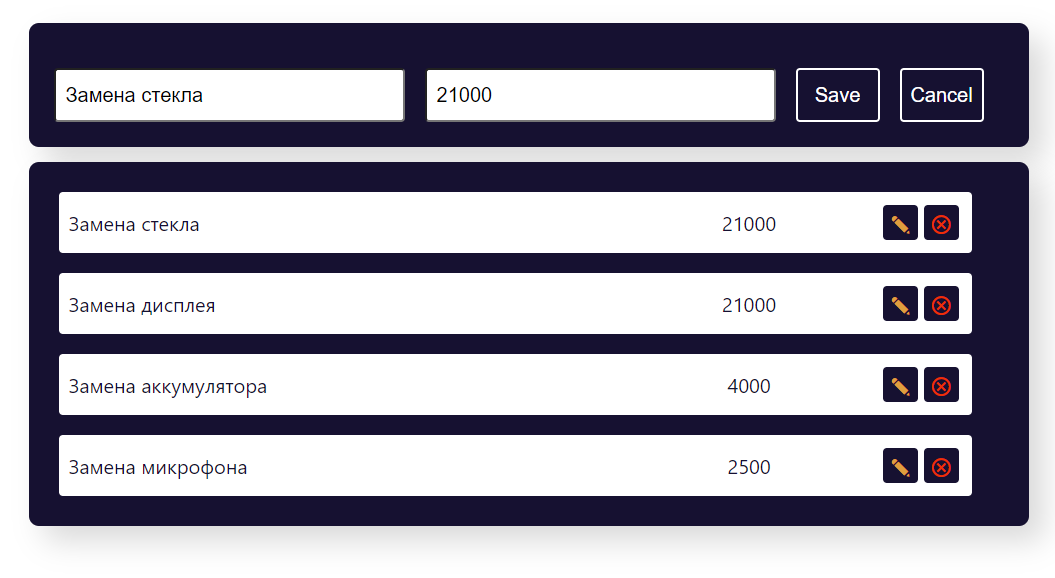
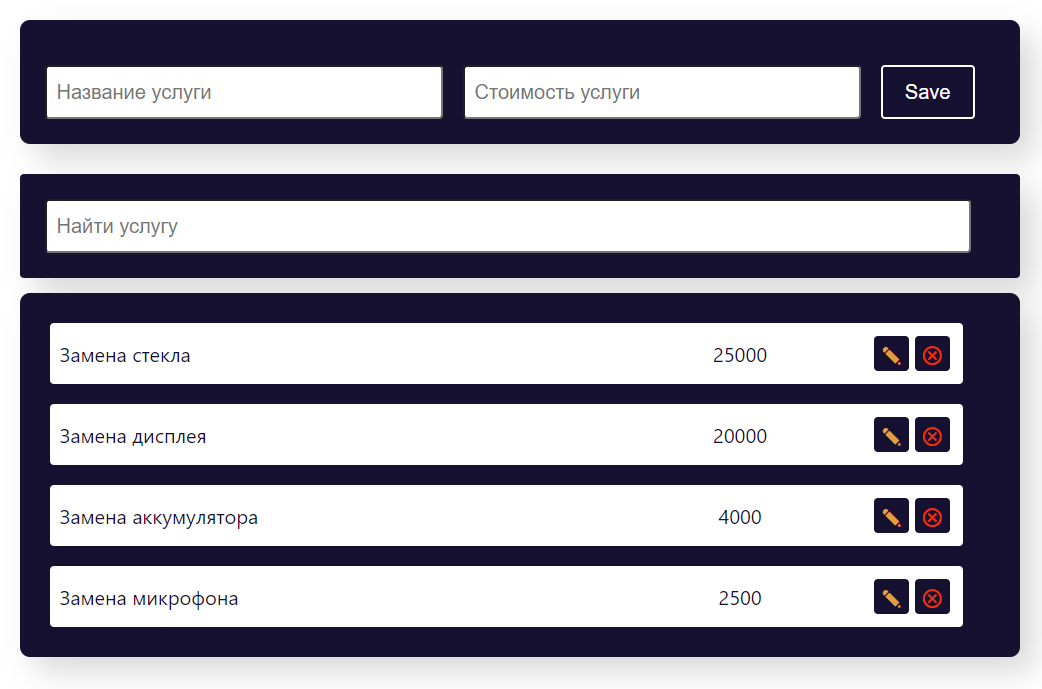
feat: added functionality

diff --git a/src/redux/serviceReducer.js b/src/redux/serviceReducer.js
@@ -5,12 +5,15 @@ import {
   DEL_SERVICE,
   REPLACEMENT_SERVICE,
   EXCHANGE_SERVICE,
+  SET_SEARCH_VALUE,
 } from './actions';
 
 const initialState = {
   service: { name: '', price: '', replacement: false },
   services: [],
   replacementId: '',
+  searchQuery: '',
+  filteredServices: [],
 };
 
 const serviceReducer = (state = initialState, action) => {
@@ -23,6 +26,8 @@ const serviceReducer = (state = initialState, action) => {
       },
       services: [...state.services],
       replacementId: state.replacementId,
+      searchQuery: state.searchQuery,
+      filteredServices: state.filteredServices,
     };
   }
 
@@ -43,6 +48,8 @@ const serviceReducer = (state = initialState, action) => {
         },
       ],
       replacementId: '',
+      searchQuery: state.searchQuery,
+      filteredServices: state.filteredServices,
     };
   }
 
@@ -51,6 +58,8 @@ const serviceReducer = (state = initialState, action) => {
       service: { name: '', price: '', replacement: state.service.replacement },
       services: state.services.filter((item) => item.id !== action.id),
       replacementId: state.replacementId,
+      searchQuery: state.searchQuery,
+      filteredServices: state.filteredServices,
     };
   }
 
@@ -59,6 +68,8 @@ const serviceReducer = (state = initialState, action) => {
       service: { name: action.name, price: action.price, replacement: true },
       services: [...state.services],
       replacementId: action.id,
+      searchQuery: state.searchQuery,
+      filteredServices: state.filteredServices,
     };
   }
 
@@ -71,6 +82,25 @@ const serviceReducer = (state = initialState, action) => {
       },
       services: state.services.filter(
         (item) => item.id !== state.replacementId
+      ),
+      replacementId: state.replacementId,
+      searchQuery: state.searchQuery,
+      filteredServices: state.filteredServices,
+    };
+  }
+
+  if (action.type === SET_SEARCH_VALUE) {
+    return {
+      service: {
+        name: state.service.name,
+        price: state.service.price,
+        replacement: state.service.replacement,
+      },
+      services: [...state.services],
+      replacementId: state.replacementId,
+      searchQuery: action.searchQuery,
+      filteredServices: state.services.filter(
+        (item) => item.name.indexOf(action.searchQuery) > -1
       ),
     };
   }

diff --git a/src/components/ServiceList.js b/src/components/ServiceList.js
@@ -4,8 +4,13 @@ import ServiceListItem from './ServiceListItem';
 
 const ServiceList = () => {
   const services = useSelector((state) => state.services);
+  const filteredServices = useSelector((state) => state.filteredServices);
+  const searchQuery = useSelector((state) => state.searchQuery);
 
-  const elements = services.map((item) => {
+  const elementsArr = searchQuery.length ? filteredServices : services;
+  const isServiceNotFound = (!filteredServices.length && searchQuery.length && services.length) ? true : false;
+
+  const elements = elementsArr.map((item) => {
     return (
       <ServiceListItem
         key={item.id}
@@ -19,7 +24,8 @@ const ServiceList = () => {
 
   return (
     <ul className="list list-group">
-      {!services.length && <p className='info'>Список услуг пуст</p>}
+      {!services.length && <p className="info">Список услуг пуст</p>}
+      {isServiceNotFound === true && <p className="info">Услуга не найдена</p>}
       {elements}
     </ul>
   );

diff --git a/src/components/SearchPanel.js b/src/components/SearchPanel.js
@@ -1,0 +1,23 @@
+import { useSelector, useDispatch } from 'react-redux';
+
+const SearchPannel = () => {
+  const searchValue = useSelector((state) => state.searchQuery);
+  const dispatchFunction = useDispatch();
+
+  const updateSearchHandler = (event) => {
+    dispatchFunction({ type: 'SET_SEARCH_VALUE', searchQuery: event.target.value });
+  };
+  return (
+    <div className="search-panel">
+      <input
+        type="text"
+        className="form-control search-input"
+        placeholder="Найти услугу"
+        value={searchValue}
+        onChange={updateSearchHandler}
+      />
+    </div>
+  );
+};
+
+export default SearchPannel;

diff --git a/src/index.css b/src/index.css
@@ -158,3 +158,20 @@ code {
   text-align: center;
 }
 
+.search-panel {
+  margin-top: 30px;
+  padding: 25px;
+  background-color: #161131;
+  border-radius: 4px;
+  box-shadow: 15px 15px 30px rgba(0,0,0,0.15);
+  color: #ffffff;
+}
+
+.search-input {
+  width: 95%;
+  height: 50px;
+  padding: 0 10px;
+  border-radius: 4px;
+  font-size: 20px;
+}
+

diff --git a/public/index.html b/public/index.html
@@ -24,7 +24,7 @@
       work correctly both with client-side routing and a non-root public URL.
       Learn how to configure a non-root public URL by running `npm run build`.
     -->
-    <title>React App</title>
+    <title>Фильтрация</title>
   </head>
   <body>
     <noscript>You need to enable JavaScript to run this app.</noscript>

diff --git a/src/App.js b/src/App.js
@@ -1,10 +1,12 @@
 import ServiceAddForm from "./components/ServiceAddForm";
 import ServiceList from "./components/ServiceList";
+import SearchPannel from "./components/SearchPanel";
 
 function App() {
   return (
     <div className="App">
       <ServiceAddForm />
+      <SearchPannel />
       <ServiceList />
     </div>
   );

diff --git a/src/redux/actions.js b/src/redux/actions.js
@@ -3,3 +3,4 @@ export const ADD_SERVICE = 'ADD_SERVICE';
 export const DEL_SERVICE = 'DEL_SERVICE';
 export const REPLACEMENT_SERVICE = 'REPLACEMENT_SERVICE';
 export const EXCHANGE_SERVICE = 'EXCHANGE_SERVICE';
+export const SET_SEARCH_VALUE = 'SET_SEARCH_VALUE'
